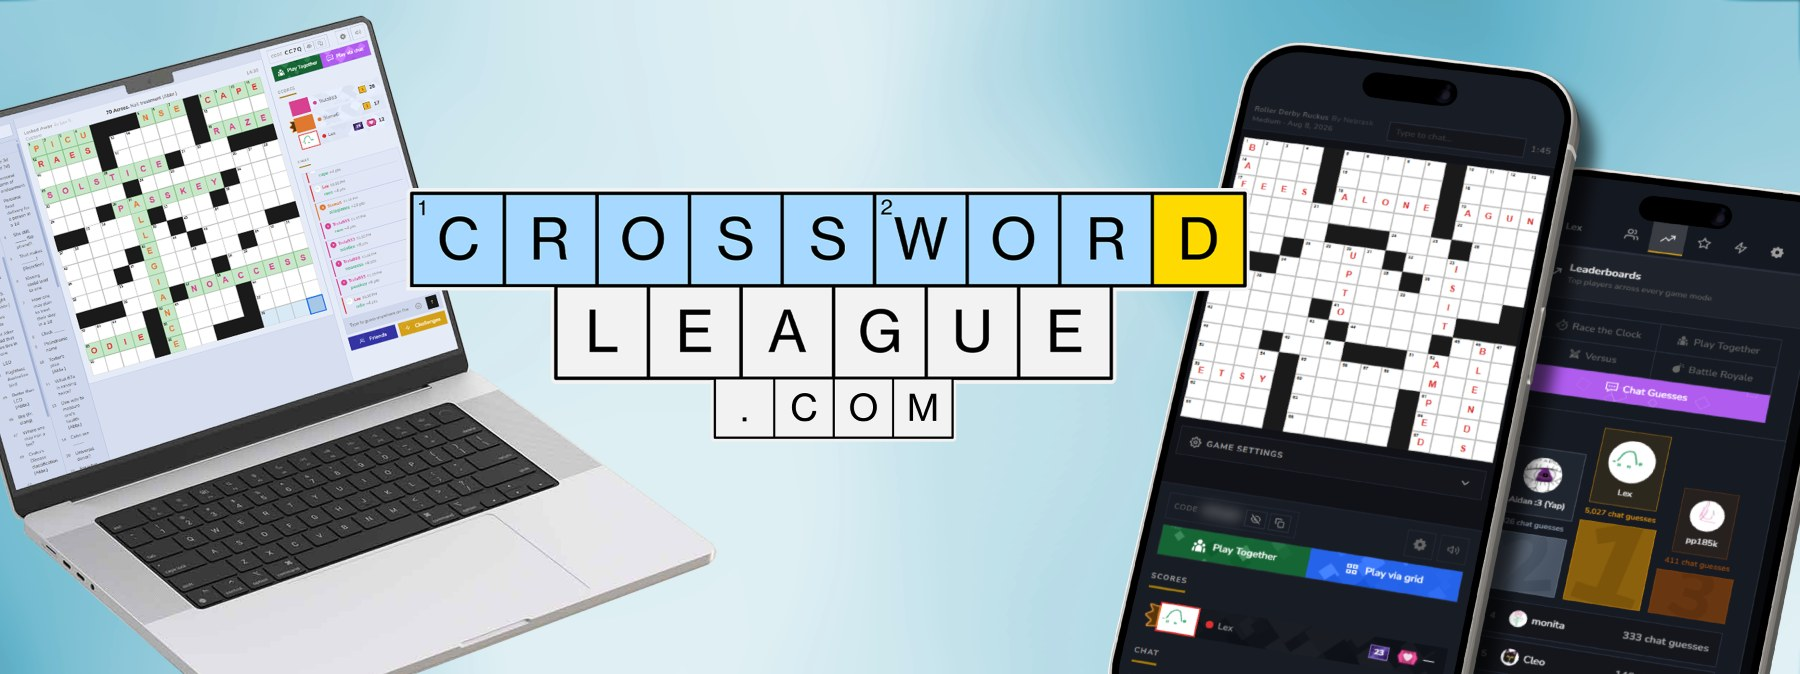
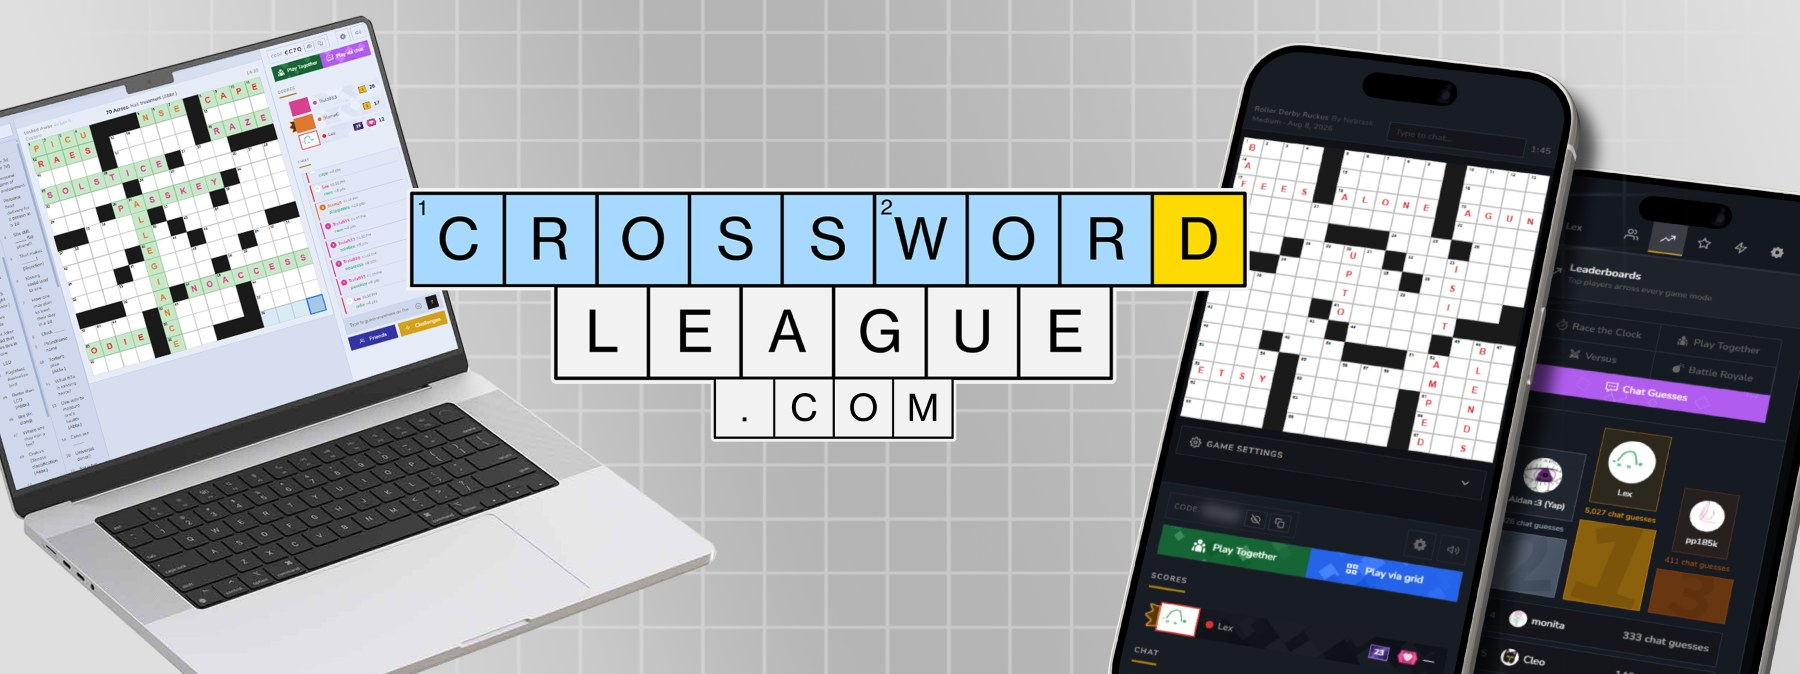
CrosswordLeague: new grey-grid cover for the home card and the project page
The project page gets the cover across the top of its title card, like
the Arctic Zoo page (3:1 desktop, 2:1 on phones).

diff --git a/5/index.html b/5/index.html
@@ -754,6 +754,17 @@
       pointer-events: none;
     }
     .footer-bottom a:hover .footer-arrow { opacity: 1; transform: translate(0, 0); }
+  
+    /* cover image across the top of the title card: the home thumbnail, a little shorter */
+    .project-cover {
+      display: block;
+      width: 100%;
+      aspect-ratio: 3 / 1;
+      object-fit: cover;
+      object-position: center;
+      border-bottom: 1px solid var(--border);
+    }
+    @media (max-width: 768px) { .project-cover { aspect-ratio: 2 / 1; } }
   </style>
 </head>
 <body>
@@ -797,6 +808,7 @@
 <!-- ── HERO ── -->
 <div class="page-wrapper">
   <div class="artwork-hero">
+    <img class="project-cover" src="../crossword-cover.jpg" alt="CrosswordLeague.com logo between a laptop and two phones showing the game">
     <div class="artwork-title-row">
       <div class="hero-title-col">
         <h1 class="artwork-main-title"><a class="title-link" href="https://crosswordleague.com" target="_blank" rel="noopener">CrosswordLeague.com<span class="title-link-arrow" aria-hidden="true">&#8599;</span></a><span class="title-sub">End-to-end product design</span></h1>
